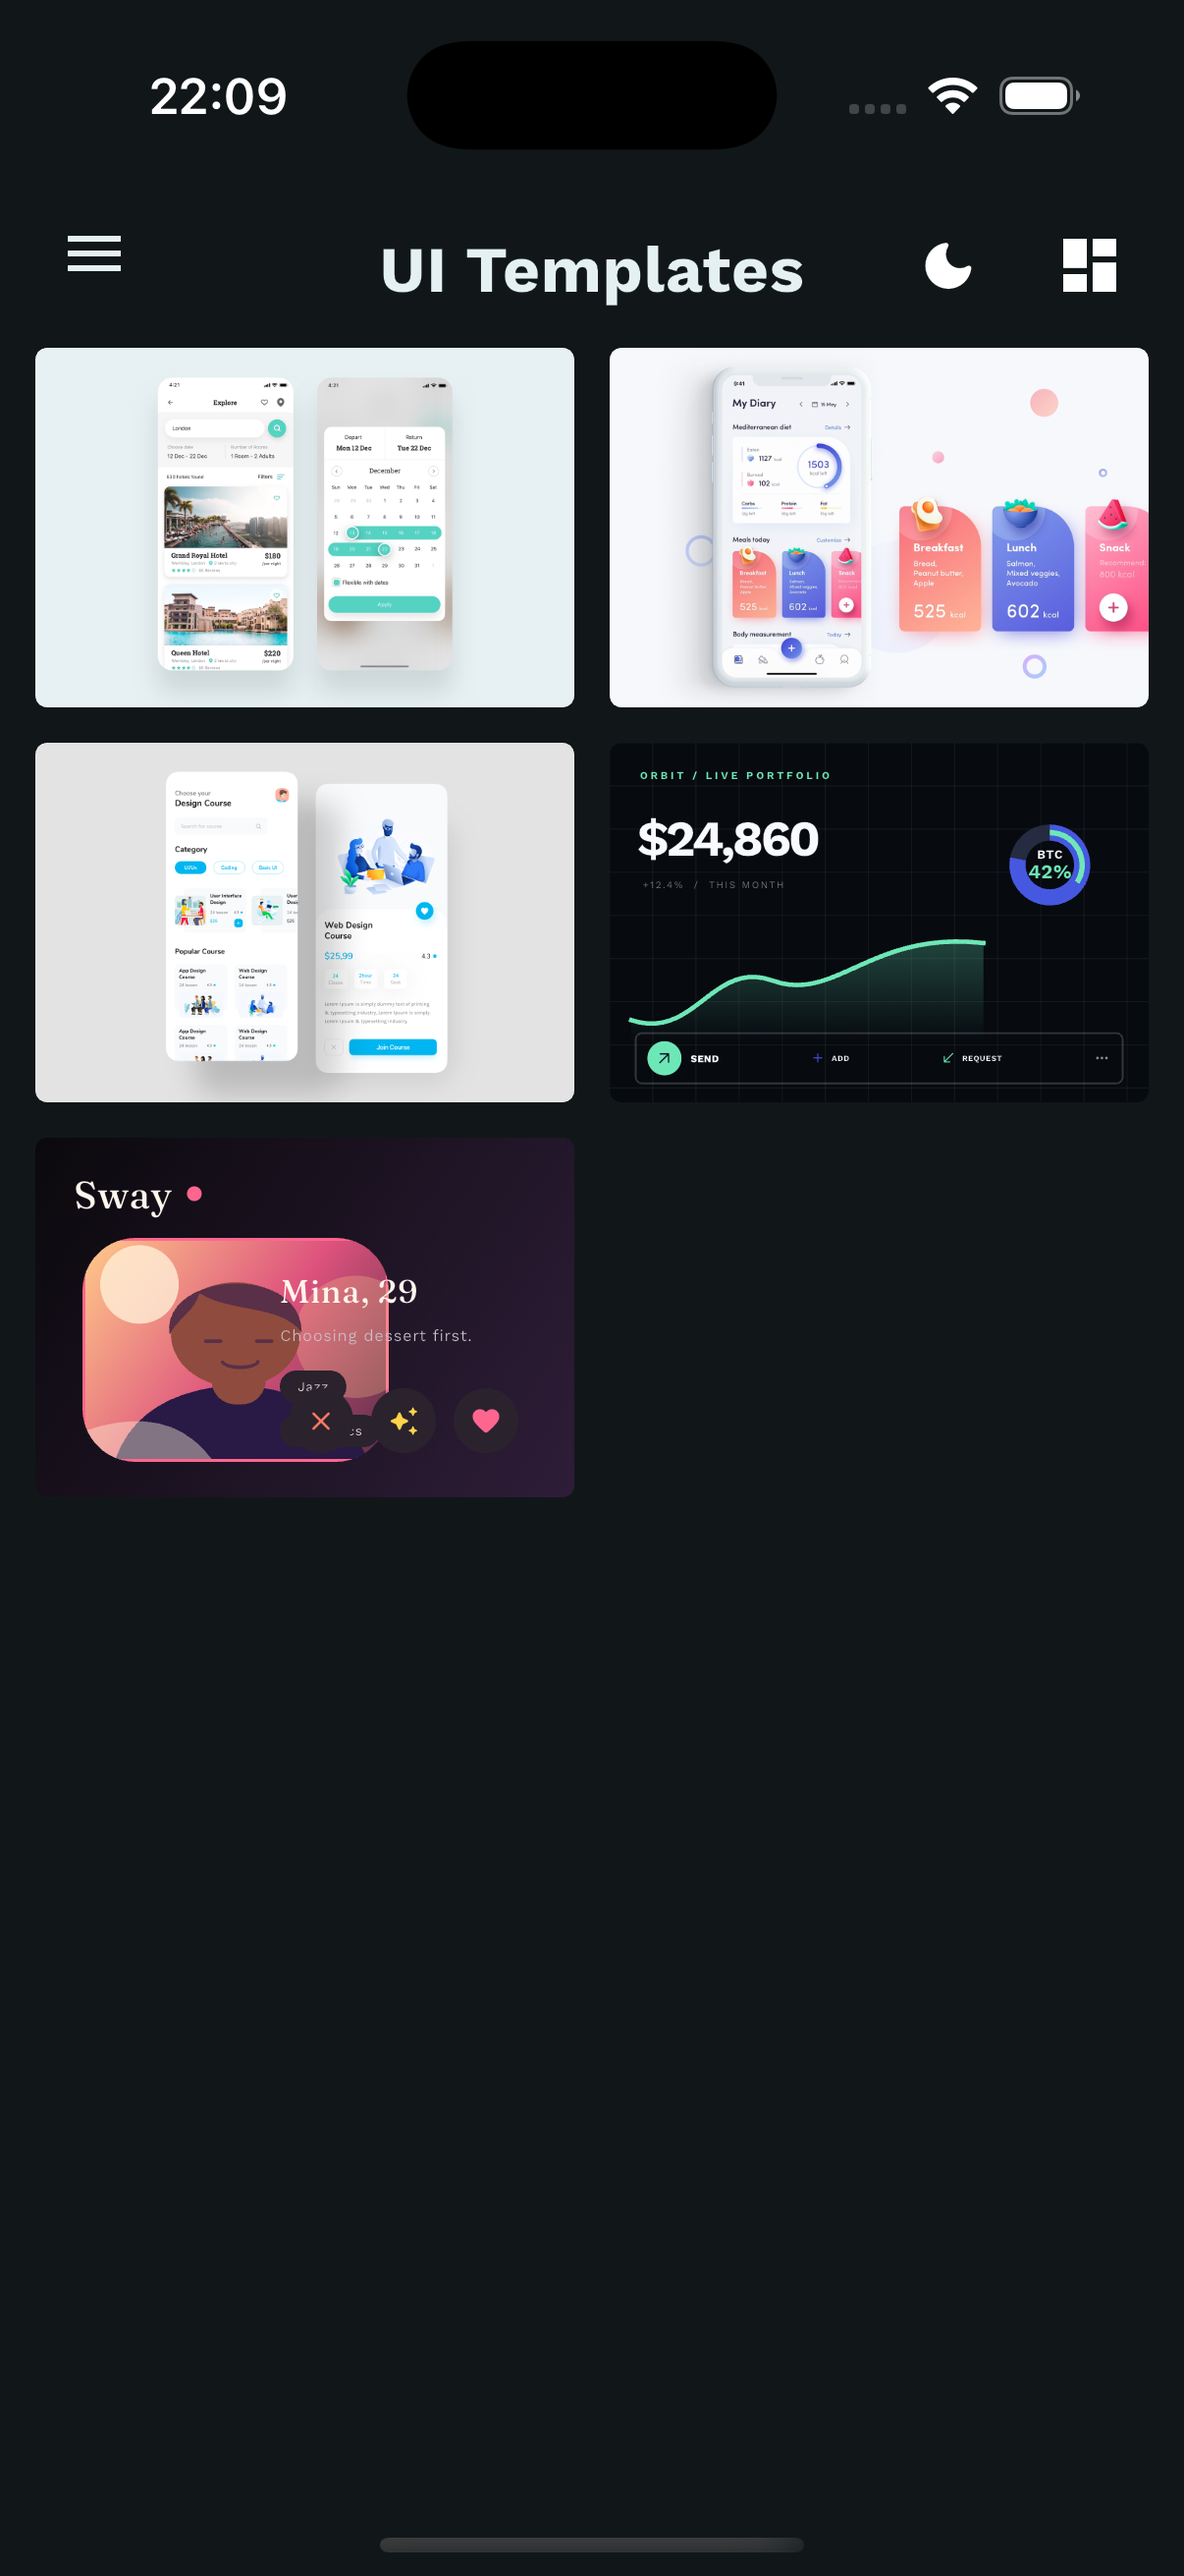
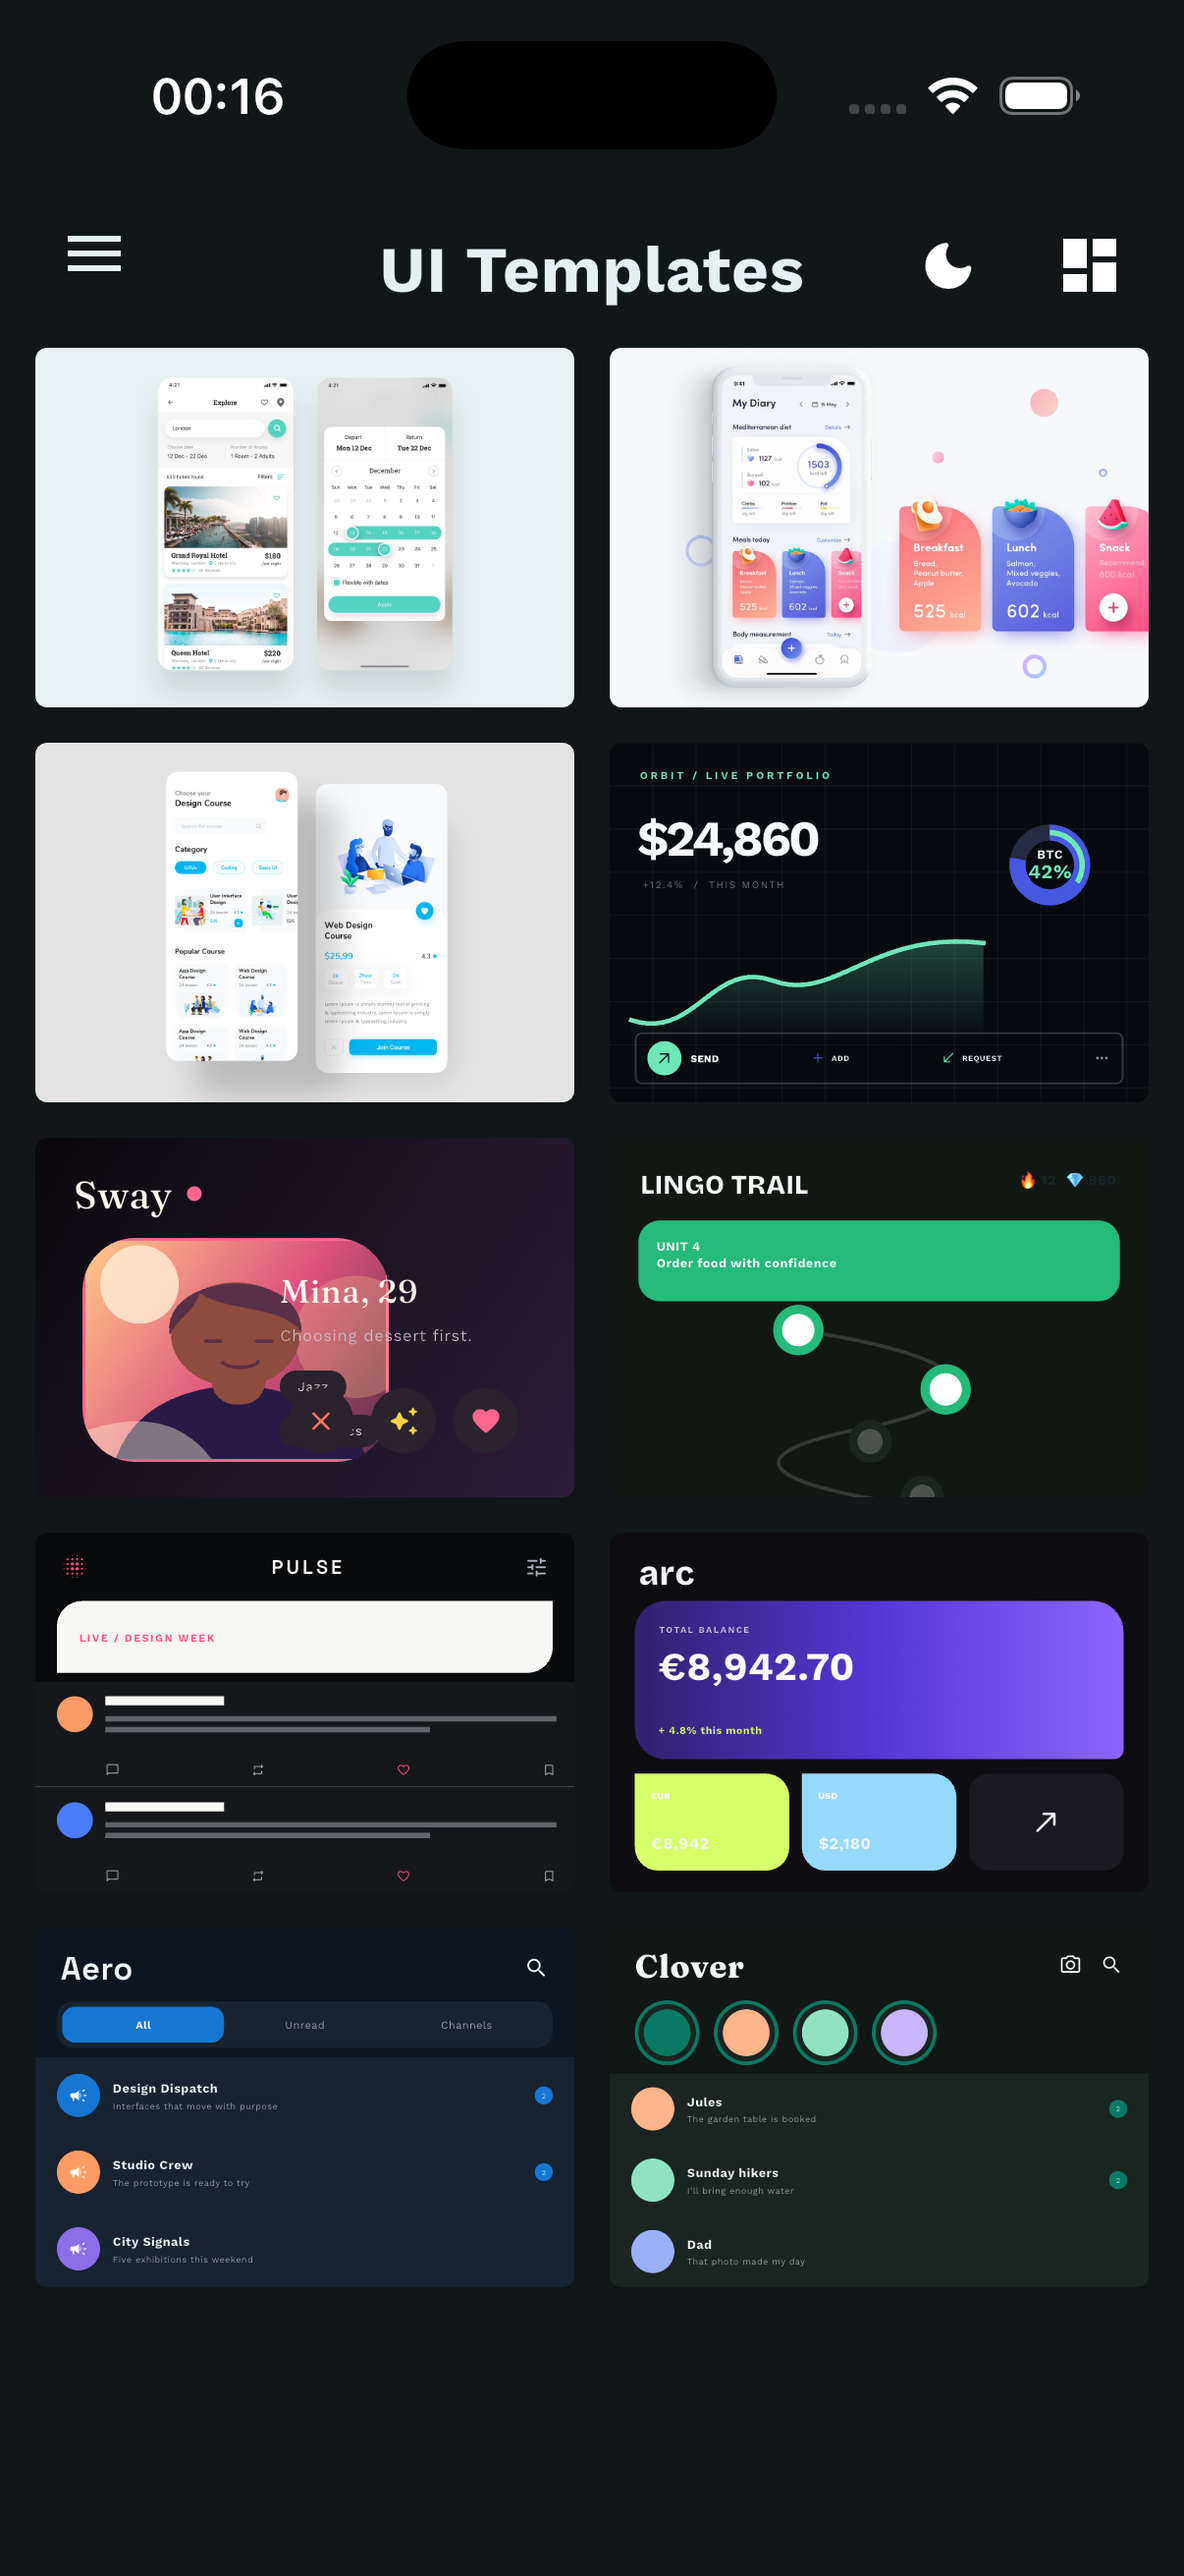
Show all ten templates in the README

diff --git a/README.md b/README.md
@@ -11,7 +11,7 @@ fvm flutter run
 
 ## Gallery
 
-Five reusable examples with system, light, and dark appearances.
+Ten reusable examples with system, light, and dark appearances.
 
 | Light | Dark |
 | :---: | :---: |
